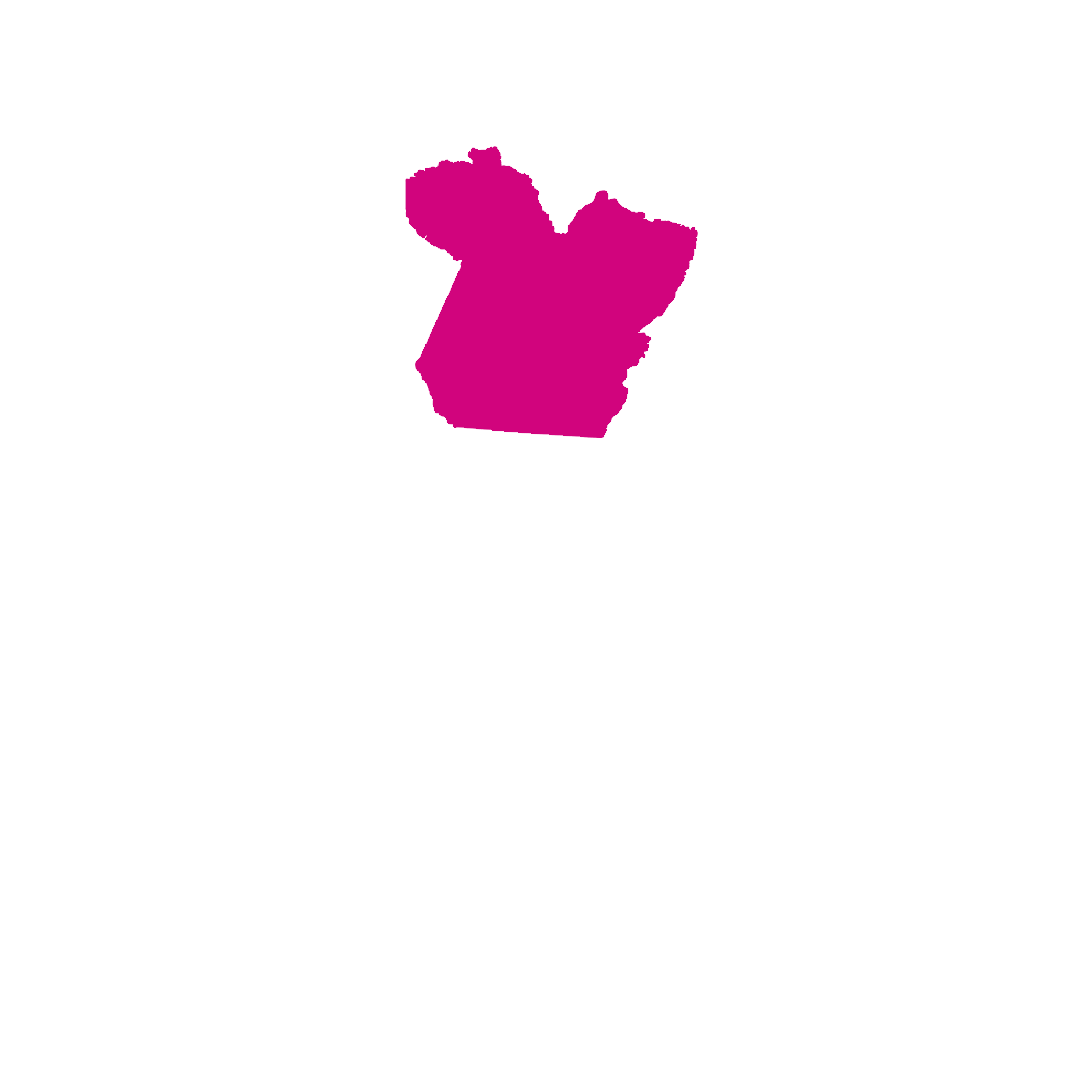
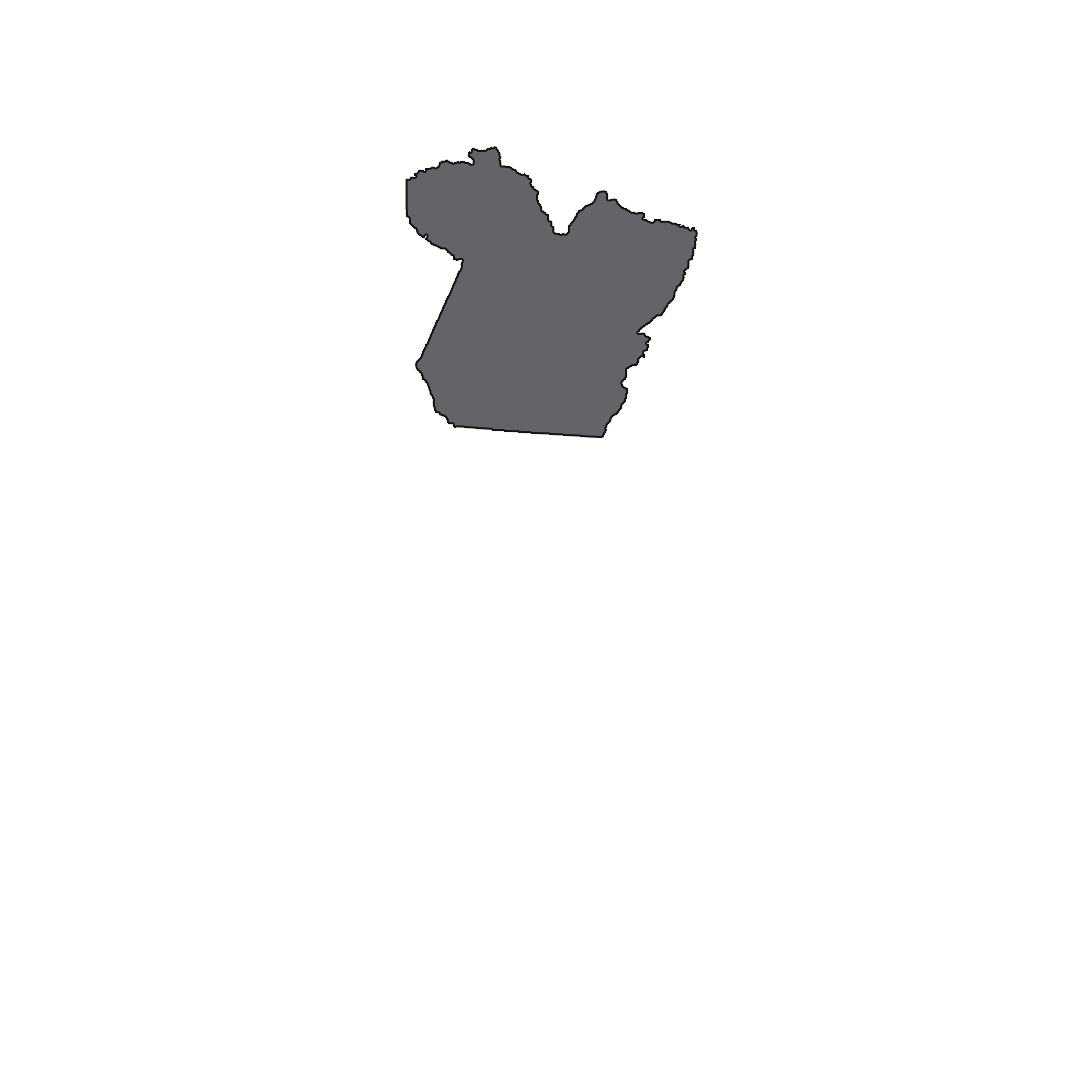
allows for different tints per state

Changed region(s): [[0.3667, 0.1222, 0.6417, 0.4278]]

diff --git a/js/main.js b/js/main.js
@@ -1,34 +1,42 @@
 var canvas;
 
 var state_list = [
-  { state: "AC", x: 143, y: 419, el: null, img: null },
-  { state: "AL", x: 931, y: 437, el: null, img: null },
-  { state: "AM", x: 301, y: 311, el: null, img: null },
-  { state: "AP", x: 565, y: 171, el: null, img: null },
-  { state: "BA", x: 801, y: 492, el: null, img: null },
-  { state: "CE", x: 845, y: 324, el: null, img: null },
-  { state: "DF", x: 657, y: 555, el: null, img: null },
-  { state: "ES", x: 822, y: 659, el: null, img: null },
-  { state: "GO", x: 606, y: 600, el: null, img: null },
-  { state: "MA", x: 717, y: 326, el: null, img: null },
-  { state: "MG", x: 733, y: 640, el: null, img: null },
-  { state: "MS", x: 500, y: 677, el: null, img: null },
-  { state: "MT", x: 473, y: 517, el: null, img: null },
-  { state: "PA", x: 545, y: 317, el: null, img: null },
-  { state: "PB", x: 934, y: 364, el: null, img: null },
-  { state: "PE", x: 949, y: 403, el: null, img: null },
-  { state: "PI", x: 770, y: 386, el: null, img: null },
-  { state: "PR", x: 577, y: 777, el: null, img: null },
-  { state: "RJ", x: 775, y: 726, el: null, img: null },
-  { state: "RN", x: 911, y: 336, el: null, img: null },
-  { state: "RO", x: 331, y: 466, el: null, img: null },
-  { state: "RR", x: 351, y: 163, el: null, img: null },
-  { state: "RS", x: 541, y: 893, el: null, img: null },
-  { state: "SC", x: 610, y: 842, el: null, img: null },
-  { state: "SE", x: 900, y: 464, el: null, img: null },
-  { state: "SP", x: 639, y: 723, el: null, img: null },
-  { state: "TO", x: 652, y: 455, el: null, img: null }
+  { state: "AC", x: 143, y: 419, el: null, img: null, region: "N" },
+  { state: "AL", x: 931, y: 437, el: null, img: null, region: "NE" },
+  { state: "AM", x: 301, y: 311, el: null, img: null, region: "N" },
+  { state: "AP", x: 565, y: 171, el: null, img: null, region: "N" },
+  { state: "BA", x: 801, y: 492, el: null, img: null, region: "NE" },
+  { state: "CE", x: 845, y: 324, el: null, img: null, region: "NE" },
+  { state: "DF", x: 657, y: 555, el: null, img: null, region: "CO" },
+  { state: "ES", x: 822, y: 659, el: null, img: null, region: "SE" },
+  { state: "GO", x: 606, y: 600, el: null, img: null, region: "CO" },
+  { state: "MA", x: 717, y: 326, el: null, img: null, region: "NE" },
+  { state: "MG", x: 733, y: 640, el: null, img: null, region: "SE" },
+  { state: "MS", x: 500, y: 677, el: null, img: null, region: "CO" },
+  { state: "MT", x: 473, y: 517, el: null, img: null, region: "CO" },
+  { state: "PA", x: 545, y: 317, el: null, img: null, region: "N" },
+  { state: "PB", x: 934, y: 364, el: null, img: null, region: "NE" },
+  { state: "PE", x: 949, y: 403, el: null, img: null, region: "NE" },
+  { state: "PI", x: 770, y: 386, el: null, img: null, region: "NE" },
+  { state: "PR", x: 577, y: 777, el: null, img: null, region: "S" },
+  { state: "RJ", x: 775, y: 726, el: null, img: null, region: "SE" },
+  { state: "RN", x: 911, y: 336, el: null, img: null, region: "NE" },
+  { state: "RO", x: 331, y: 466, el: null, img: null, region: "N" },
+  { state: "RR", x: 351, y: 163, el: null, img: null, region: "N" },
+  { state: "RS", x: 541, y: 893, el: null, img: null, region: "S" },
+  { state: "SC", x: 610, y: 842, el: null, img: null, region: "S" },
+  { state: "SE", x: 900, y: 464, el: null, img: null, region: "NE" },
+  { state: "SP", x: 639, y: 723, el: null, img: null, region: "SE" },
+  { state: "TO", x: 652, y: 455, el: null, img: null, region: "N" }
 ];
+
+let tints = {
+  N: [255, 0, 0],
+  NE: [255, 0, 255],
+  CO: [255, 255, 0],
+  SE: [0, 255, 0],
+  S: [0, 0, 255]
+};
 
 let myFont;
 let brazil;
@@ -65,8 +73,10 @@ function draw() {
       if (element.img && isNumeric(element.el.value)) {
         let min = 0.05;
         let range = 1.0 - min;
-        let opacity = (parseInt(element.el.value) / max) * range + min;
-        tint(255, opacity * 255);
+        let opacity =
+          (parseInt(element.el.value) / max[element.region]) * range + min;
+        t = tints[element.region];
+        tint([t[0], t[1], t[2], opacity * 255]);
         image(element.img, 0, 0);
       }
     }
@@ -88,11 +98,20 @@ function isNumeric(n) {
 }
 
 function findMax() {
-  let m = 0;
+  let m = {
+    N: 0,
+    NE: 0,
+    CO: 0,
+    SE: 0,
+    S: 0
+  };
   state_list.forEach(function(element) {
     if (element.el) {
-      if (isNumeric(element.el.value) && parseInt(element.el.value) > m) {
-        m = parseInt(element.el.value);
+      if (
+        isNumeric(element.el.value) &&
+        parseInt(element.el.value) > m[element.region]
+      ) {
+        m[element.region] = parseInt(element.el.value);
       }
     }
   });
